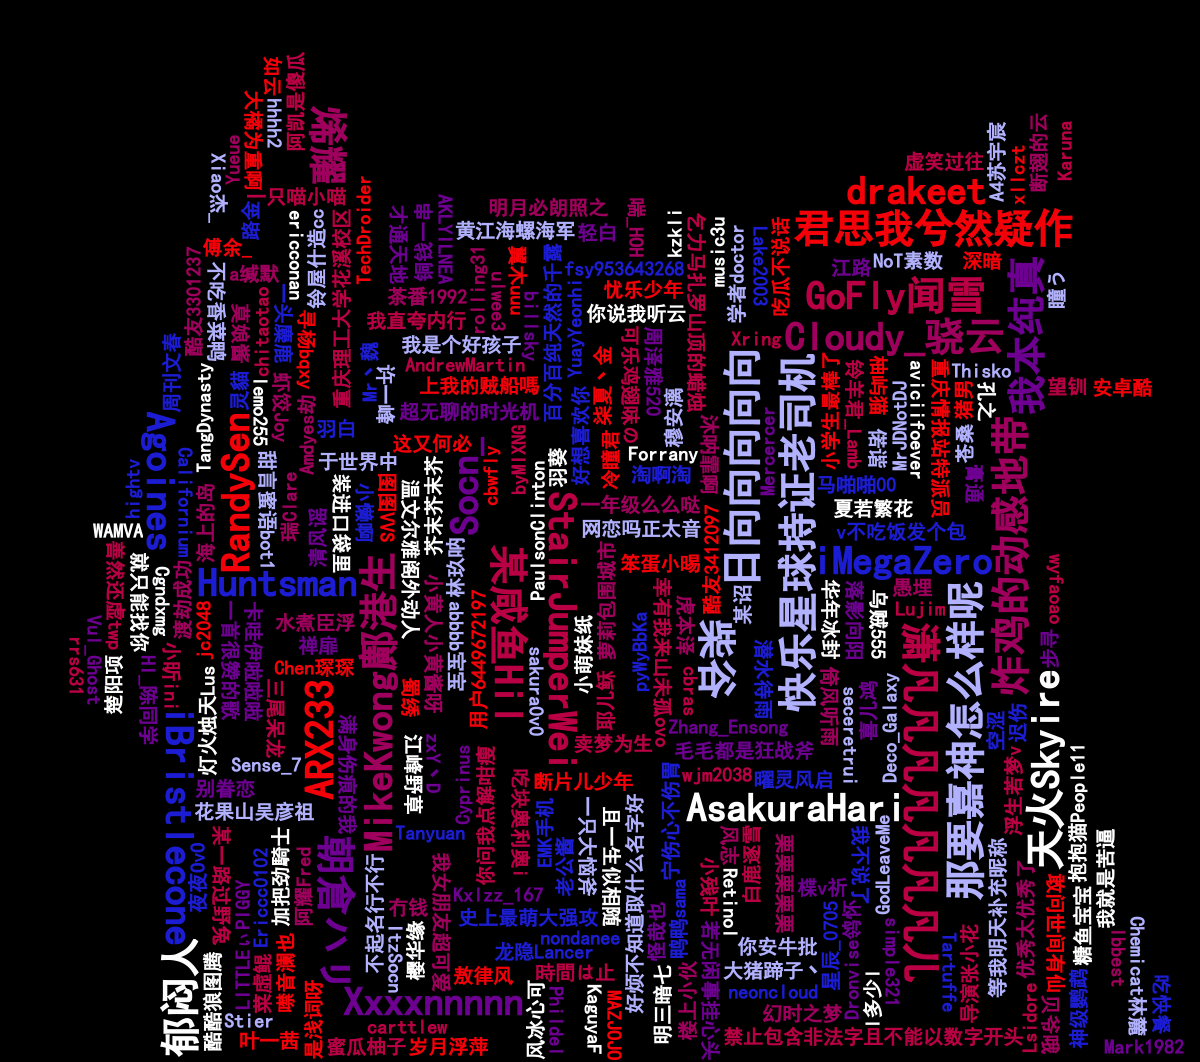
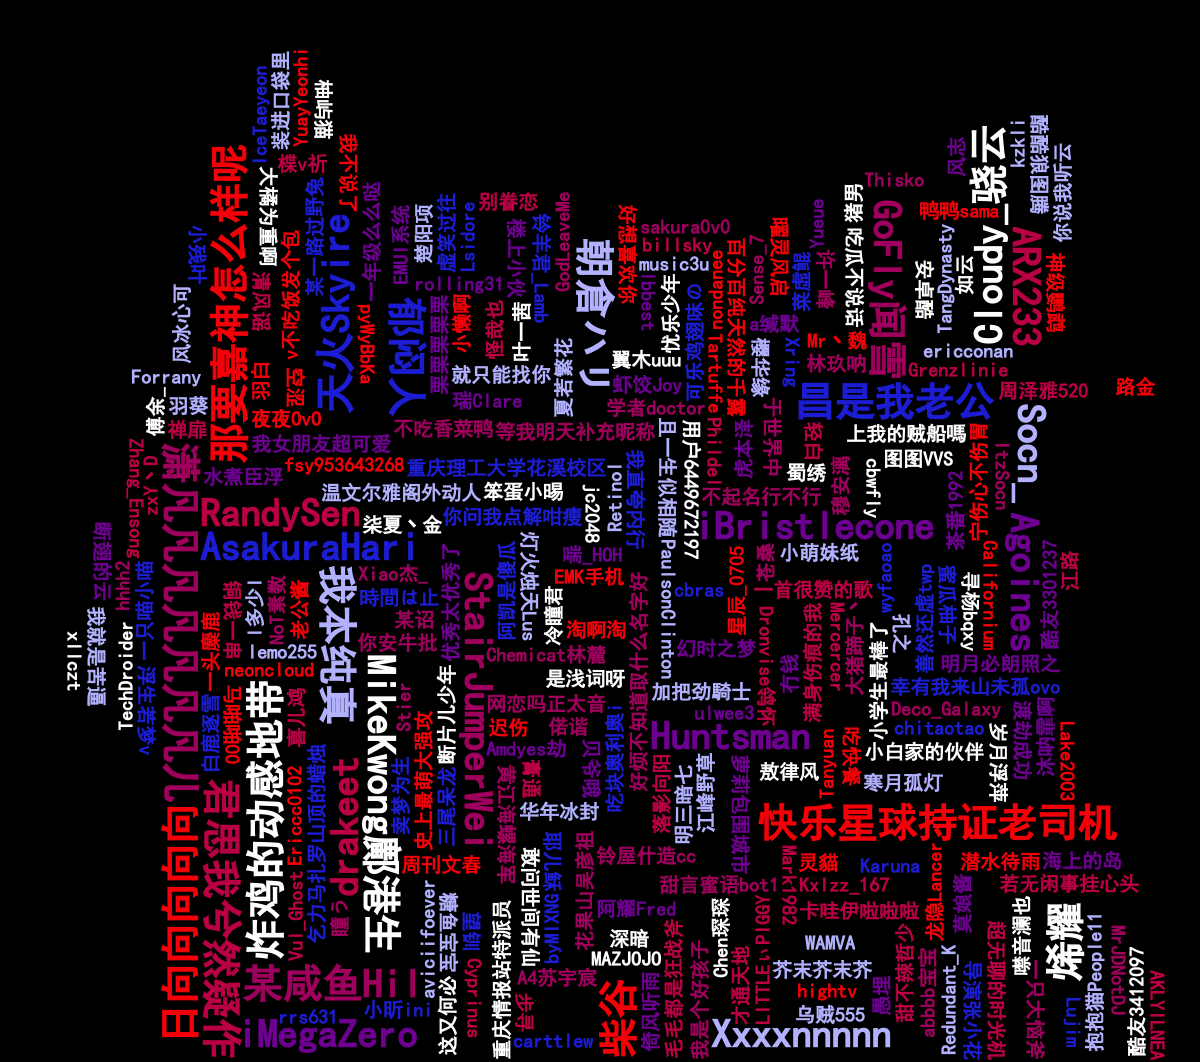
docs(FansWordCloud.png): 更改了示例输出图片的配色和样式 fix(FansWordCloud.java): 更改了示例输出图片的配色和样式 feat(FansWordCloud.java): 更新了中文分词器 getWordFrequenciesWithChineseWordTokenizer(userID) 和 获取文件路径 getFansWordCloudFilePathWithName(userID,width,height)

diff --git a/CoolApkFans/src/FansWordCloud.java b/CoolApkFans/src/FansWordCloud.java
@@ -7,7 +7,10 @@ import com.kennycason.kumo.bg.PixelBoundaryBackground;
 import com.kennycason.kumo.bg.RectangleBackground;
 import com.kennycason.kumo.font.KumoFont;
 import com.kennycason.kumo.font.scale.LinearFontScalar;
+import com.kennycason.kumo.nlp.FrequencyAnalyzer;
+import com.kennycason.kumo.nlp.tokenizers.ChineseWordTokenizer;
 import com.kennycason.kumo.palette.ColorPalette;
+import io.FileWrite;
 
 import javax.imageio.ImageIO;
 import java.awt.*;
@@ -17,6 +20,27 @@ import java.util.ArrayList;
 import java.util.List;
 
 public class FansWordCloud {
+
+
+    public static String getFansWordCloudFilePathWithName(int userID, int width, int height, String name) {
+        ArrayList<Data> fansDataList = runOnGetOldFansData(userID);
+        if (fansDataList == null) {
+            fansDataList = runOnGetNewFansData(userID);
+        }
+        return fansDataList.get(0).getFuid() + "-" + fansDataList.get(0).getFusername()
+                + "-" + width + "x" + height
+                + "-FansWordCloud" + name + ".png";
+    }
+
+    public static String getFansWordCloudFilePath(int userID, int width, int height) {
+        return getFansWordCloudFilePathWithName(userID,width,height,"");
+    }
+
+
+    public static String getFansWordCloudFilePathWithImage(int userID, int width, int height) {
+        return getFansWordCloudFilePathWithName(userID,width,height,"WithImage");
+    }
+
 
 
 
@@ -29,12 +53,9 @@ public class FansWordCloud {
      *
      */
     public static void getFansWordCloud(int userID, int width, int height) {
-        ArrayList<Data> fansDataList = runOnGetOldFansData(userID);
-        if (fansDataList == null) {
-            fansDataList = runOnGetNewFansData(userID);
-        }
+        String fileName = getFansWordCloudFilePath(userID,width,height);
         getFansWordCloud("黑体", 22, width, height,
-                "./pic/" + fansDataList.get(0).getFuid() + "-" + fansDataList.get(0).getFusername() + "-FansWordCloud.png",getWordFrequencies(userID));
+                "./pic/" + fileName,getWordFrequencies(userID));
     }
 
     /**
@@ -45,12 +66,10 @@ public class FansWordCloud {
      *
      */
     public static void getFansWordCloudWithImage(int userID, String backgroundImage) {
-        ArrayList<Data> fansDataList = runOnGetOldFansData(userID);
-        if (fansDataList == null) {
-            fansDataList = runOnGetNewFansData(userID);
-        }
+        int[] WH = getImageWidthHeight(backgroundImage);// 获取图片的宽高
+        String fileName = getFansWordCloudFilePathWithImage(userID,WH[0],WH[1]);
         getFansWordCloudWithImage("黑体", 20,
-                "./pic/" + fansDataList.get(0).getFuid() + "-" + fansDataList.get(0).getFusername() + "-FansWordCloudWithImage.png",backgroundImage,getWordFrequencies(userID));
+                "./pic/" + fileName,backgroundImage,getWordFrequencies(userID));
     }
 
 
@@ -159,6 +178,46 @@ public class FansWordCloud {
         }
     }
 
+
+    public static InputStream getStringStream(String sInputString){
+        if (sInputString != null && !sInputString.trim().equals("")){
+            try{
+                return new ByteArrayInputStream(sInputString.getBytes());
+            }catch (Exception ex){
+                ex.printStackTrace();
+            }
+        }
+        return null;
+    }
+
+    //返回词云list,使用 KUAM 的分词功能
+    protected static List<WordFrequency> getWordFrequenciesWithChineseWordTokenizer(int userID) {
+
+        ArrayList<Data> fansDataList = runOnGetOldFansData(userID);
+        if (fansDataList == null) {
+            fansDataList = runOnGetNewFansData(userID);
+        }
+
+        final FrequencyAnalyzer frequencyAnalyzer = new FrequencyAnalyzer();
+        frequencyAnalyzer.setWordFrequenciesToReturn(600);
+        frequencyAnalyzer.setMinWordLength(2);
+        frequencyAnalyzer.setWordTokenizer(new ChineseWordTokenizer());
+
+        StringBuilder fansName = new StringBuilder();
+        for ( String str: CoolApkFansApi.getFansName(fansDataList)) {
+            fansName.append(str).append("\n");
+        }
+        //FileWrite.write2File("./out/" + fansDataList.get(0).getFuid() + "-FansNameList.txt",fansName.toStrinh());
+
+        try {
+            //return frequencyAnalyzer.load("./out/" + fansDataList.get(0).getFuid() + "-FansNameList.txt");
+            return frequencyAnalyzer.load(getStringStream(fansName.toString()));
+        } catch (IOException e) {
+            e.printStackTrace();
+            return null;
+        }
+    }
+
     //自定义词云list,如果检查到为互相关注则提高权重为3否则为1
     protected static List<WordFrequency> getWordFrequencies(int userID) {
 
@@ -187,7 +246,7 @@ public class FansWordCloud {
     private static ArrayList<api.dataclass.Data> runOnGetNewFansData(int userID) {
         ArrayList<api.dataclass.Data> fansData = CoolApkFansApi.getFansData(userID);
         try {
-            FileOutputStream fileOut = new FileOutputStream(userID + "-FansDataList.ser");
+            FileOutputStream fileOut = new FileOutputStream("./ser/" + userID + "-FansDataList.ser");
             ObjectOutputStream out = new ObjectOutputStream(fileOut);
             out.writeObject(fansData);
             out.close();
@@ -202,7 +261,7 @@ public class FansWordCloud {
     private static ArrayList<api.dataclass.Data> runOnGetOldFansData(int userID) {
         ArrayList<api.dataclass.Data> fansData = null;
         try {
-            FileInputStream fileIn = new FileInputStream(userID + "-FansDataList.ser");
+            FileInputStream fileIn = new FileInputStream("./ser/" + userID + "-FansDataList.ser");
             ObjectInputStream in = new ObjectInputStream(fileIn);
             fansData = (ArrayList<api.dataclass.Data>) in.readObject();
             in.close();

diff --git a/CoolApkFans/src/main.java b/CoolApkFans/src/main.java
@@ -9,11 +9,33 @@ public class main {
         FansWordCloud.getFansWordCloud(2086596,1000,1000,"./pic/FansWordCloud.png");
         FansWordCloud.getFansWordCloudWithImage(2086596,"./pic/FansWordCloudWithImage.png","./pic/UserFace.png");
 
-
+        //快速生成
         FansWordCloud.getFansWordCloud(2086596,1000,1000);
         FansWordCloud.getFansWordCloudWithImage(2086596,"./pic/UserFace.png");
 
+        //自定义
+        String fileName = FansWordCloud.getFansWordCloudFilePath(2086596,1000,1000);
+        FansWordCloud.getFansWordCloud("黑体", 22, 1000,1000,
+                "./pic/" + fileName,FansWordCloud.getWordFrequencies(2086596));
 
+        //自定义并加入中文分词
+        String fileNameWithChineseWordTokenizer =
+                FansWordCloud.getFansWordCloudFilePathWithName(2086596,1000,1000,
+                        "WithChineseWordTokenizer");
+        FansWordCloud.getFansWordCloud("黑体", 22, 1000,1000,
+                "./pic/" + fileNameWithChineseWordTokenizer,FansWordCloud.getWordFrequenciesWithChineseWordTokenizer(2086596));
+
+
+        /*FansWordCloud.getFansWordCloud(3596689,800,800);
+
+        FansWordCloud.getFansWordCloud(1809499,1000,1000);
+        FansWordCloud.getFansWordCloud(2749583,1000,1000);
+        FansWordCloud.getFansWordCloud(1316828,1000,1000);
+
+        FansWordCloud.getFansWordCloud(854032,4400,4400);
+        FansWordCloud.getFansWordCloud(854032,10000,10000);
+
+        FansWordCloud.getFansWordCloud(436885,3300,3300);*/
 
     }
 
